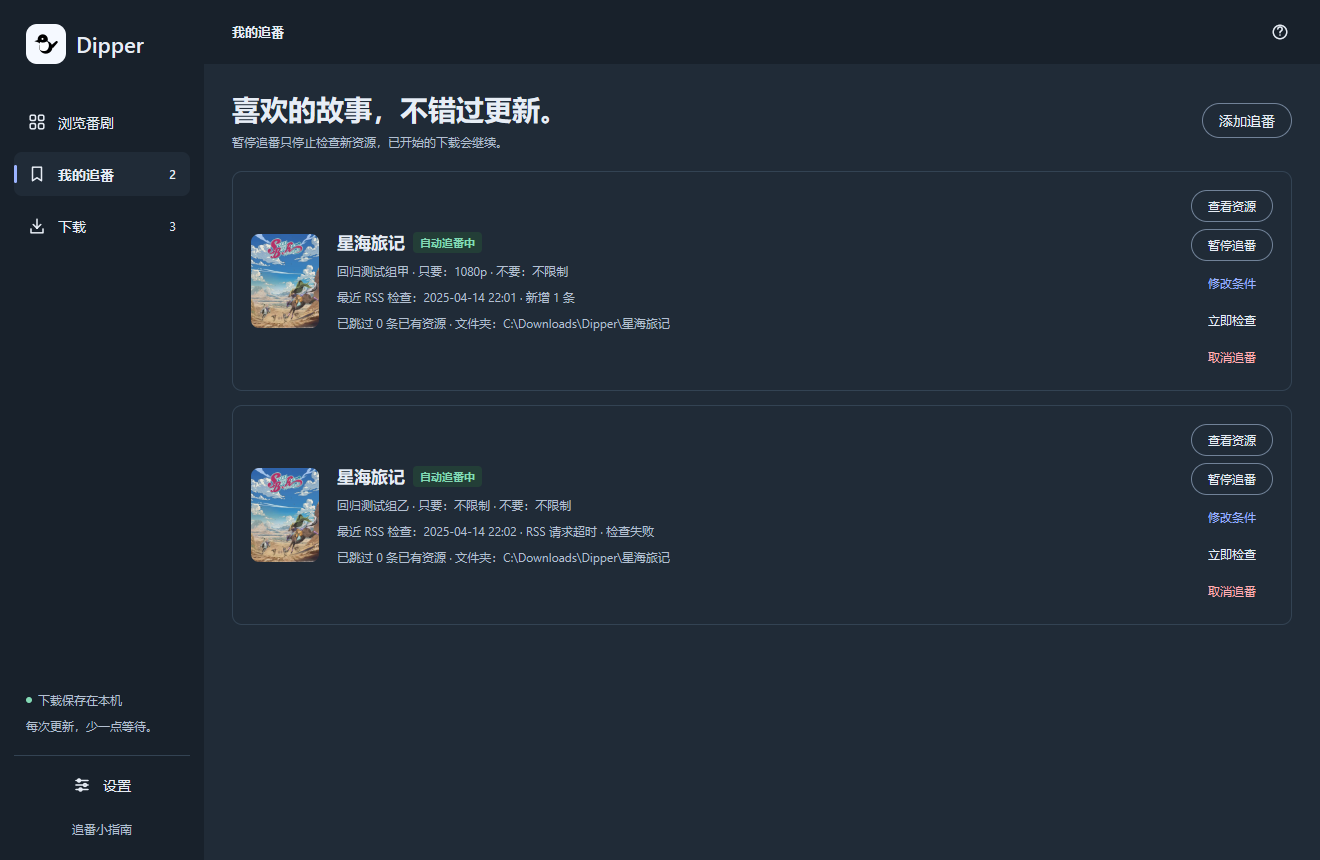
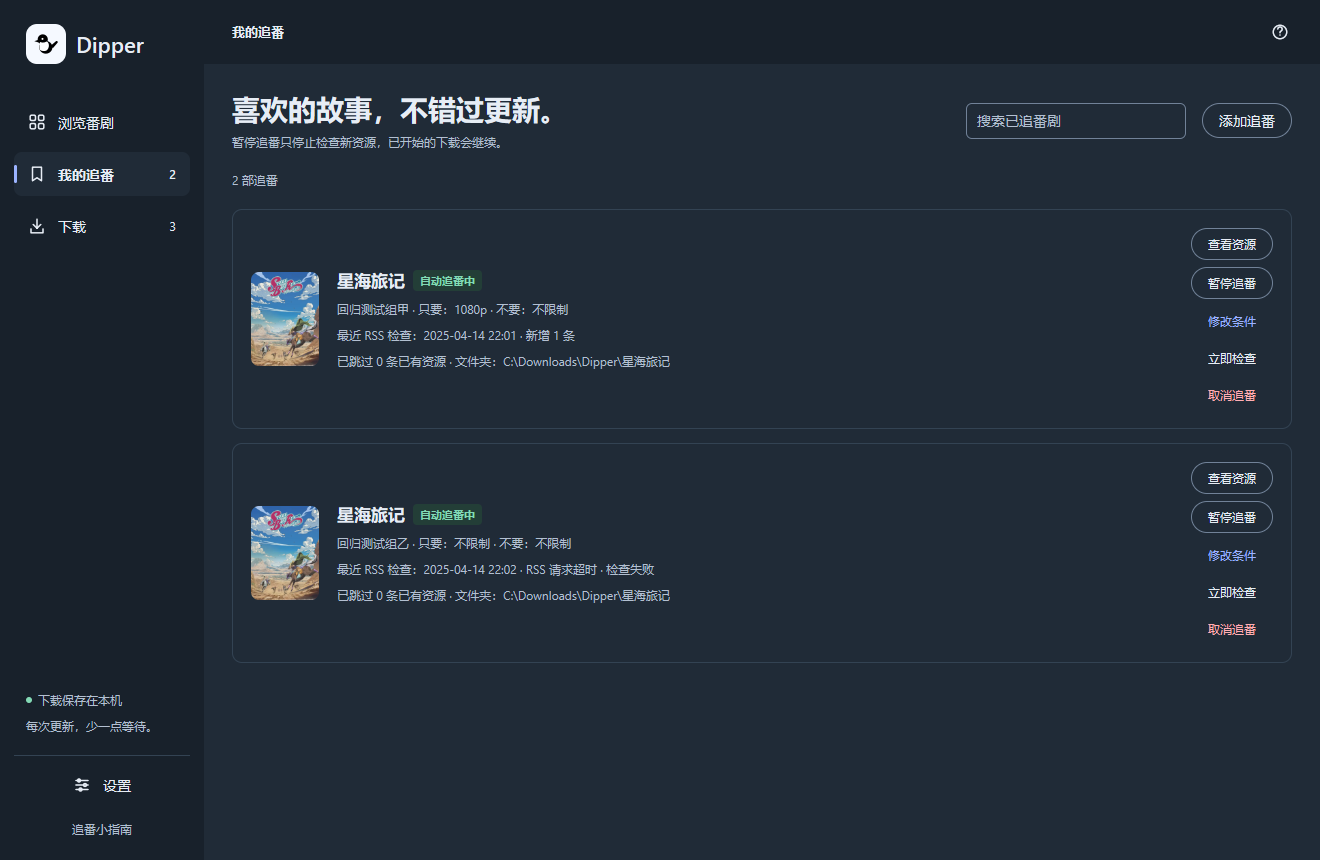
following: search saved follows and show pending and download summary

diff --git a/cmd/dipper/view.go b/cmd/dipper/view.go
@@ -987,11 +987,14 @@ func joinWords(words []string) string {
 
 func (s *State) following(c *ui.Context) {
 	ui.Column(c).Grow(1).MinHeight(0).Padding(26, 28).Gap(20).Children(func() {
-		ui.Row(c).Children(func() {
+		ui.Row(c).Gap(16).Children(func() {
 			ui.Column(c).Grow(1).Gap(6).Children(func() {
 				ui.Text(c, "喜欢的故事，不错过更新。").FontSize(28).FontWeight(700)
 				caption(c, "暂停追番只停止检查新资源，已开始的下载会继续。")
 			})
+			if ui.TextInput(c.Key("follow-search"), &s.FollowSearch).Label("搜索追番").Placeholder("搜索已追番剧").Width(220).Height(36).Background(colors(c).paper).Changed() {
+				s.ResourceScroll = ui.ScrollState{}
+			}
 			secondary(c, "find-more", "添加追番", func() { s.Page = "browse" })
 		})
 		if s.Notice != "" {
@@ -1006,9 +1009,26 @@ func (s *State) following(c *ui.Context) {
 			s.empty(c, "还没有开始追番", "先找到一部喜欢的番剧，选好版本，后续就不用反复找资源了。", "浏览番剧", func() { s.Page = "browse" })
 			return
 		}
+		var subs []Subscription
+		for _, sub := range s.Subscriptions {
+			if s.follows(sub) {
+				subs = append(subs, sub)
+			}
+		}
+		ui.Row(c).Gap(6).Children(func() {
+			caption(c, fmt.Sprintf("%d 部追番", len(subs)))
+			ui.Spacer(c)
+			if strings.TrimSpace(s.FollowSearch) != "" {
+				quiet(c, "clear-follow-search", "清除搜索", func() { s.FollowSearch = "" }).FontSize(12).TextColor(colors(c).blue).Padding(3, 0)
+			}
+		})
+		if len(subs) == 0 {
+			s.empty(c, "没有找到这部追番", "试试缩短番名，或清除搜索。", "清除搜索", func() { s.FollowSearch = "" })
+			return
+		}
 		ui.Scroll(c.Key("following-list")).Grow(1).MinHeight(0).Children(func() {
 			ui.Column(c).Gap(14).Children(func() {
-				for i, sub := range s.Subscriptions {
+				for i, sub := range subs {
 					idx := i
 					item := sub
 					a := s.anime(item.AnimeID)
@@ -1019,8 +1039,13 @@ func (s *State) following(c *ui.Context) {
 								ui.Text(c, a.Title).FontSize(17).FontWeight(600)
 								if item.Paused {
 									badge(c, "已暂停", colors(c).muted, colors(c).canvas)
+								} else if item.Active {
+									badge(c, "下载中", colors(c).blue, colors(c).blueWash)
 								} else {
 									badge(c, "自动追番中", colors(c).green, colors(c).greenWash)
+								}
+								if item.NewCount > 0 {
+									badge(c, fmt.Sprintf("新资源 %d 条", item.NewCount), colors(c).amber, colors(c).amberWash)
 								}
 							})
 							group := item.GroupName
@@ -1039,6 +1064,9 @@ func (s *State) following(c *ui.Context) {
 								status += " · 检查失败"
 							}
 							caption(c, status)
+							if len(item.Recent) > 0 {
+								caption(c, "最近新到："+strings.Join(item.Recent, " / "))
+							}
 							caption(c, fmt.Sprintf("已跳过 %d 条已有资源 · 文件夹：%s", len(item.Skipped), item.Folder))
 						})
 						ui.Column(c).Gap(7).Children(func() {
@@ -1309,4 +1337,26 @@ func (s *State) titlePreferences(c *ui.Context) {
 		})
 		secondary(c, "close-suggestions", "完成选版本", func() { s.Suggestions = false }).FillWidth()
 	})
+}
+
+// follows keeps the subscription when the follow search matches its anime
+// title, subtitle group, or a word the saved rule requires.
+func (s *State) follows(sub Subscription) bool {
+	query := normalize(strings.TrimSpace(s.FollowSearch))
+	if query == "" {
+		return true
+	}
+	a := s.anime(sub.AnimeID)
+	if strings.Contains(normalize(a.Title), query) {
+		return true
+	}
+	if strings.Contains(normalize(sub.GroupName), query) {
+		return true
+	}
+	for _, w := range sub.Rule.All {
+		if strings.Contains(normalize(w), query) {
+			return true
+		}
+	}
+	return false
 }

diff --git a/cmd/dipper/view_test.go b/cmd/dipper/view_test.go
@@ -320,6 +320,34 @@ func TestUIBackfillEntryRequiresExplicitSelectionAndKeepsSavedRule(t *testing.T)
 	}
 }
 
+func TestUIFollowingSearchFiltersByTitle(t *testing.T) {
+	s := uiFixture(t, "following")
+	tt := ui.NewTester(s.view, 1320, 860)
+	s.FollowSearch = "组乙"
+	tt.Frame()
+	uiRequireText(t, tt, "1 部追番", "清除搜索")
+	if tt.HasText(s.Subscriptions[0].GroupName) {
+		t.Fatal("follow search did not filter out the other subscription")
+	}
+	uiClick(t, tt, "清除搜索")
+	if s.FollowSearch != "" {
+		t.Fatal("clearing the follow search did not clear the query")
+	}
+	s.FollowSearch = "不存在的追番"
+	tt.Frame()
+	uiRequireText(t, tt, "没有找到这部追番")
+	uiClick(t, tt, "清除搜索")
+}
+
+func TestUIFollowingShowsPendingAndActiveSummary(t *testing.T) {
+	s := uiFixture(t, "following")
+	s.Subscriptions[0].NewCount = 2
+	s.Subscriptions[0].Recent = []string{"[桥接字幕组] 桥接番剧 - 03 [1080p].mkv", "[桥接字幕组] 桥接番剧 - 04 [1080p].mkv"}
+	s.Subscriptions[1].Active = true
+	tt := ui.NewTester(s.view, 1320, 860)
+	uiRequireText(t, tt, "新资源 2 条", "最近新到：", "下载中")
+}
+
 func TestUIFollowingUsesSubscriptionIdentityAndRSSResult(t *testing.T) {
 	s := uiFixture(t, "following")
 	s.Catalog = nil

diff --git a/cmd/dipper/model.go b/cmd/dipper/model.go
@@ -48,6 +48,9 @@ type Subscription struct {
 	Read                   []string
 	LastCheck              string
 	CheckFailed            bool
+	NewCount               int
+	Recent                 []string
+	Active                 bool
 }
 type Download struct {
 	Error                               string
@@ -116,6 +119,7 @@ type State struct {
 	Season                     string
 	Day                        int
 	Search                     string
+	FollowSearch               string
 	AnimeID                    string
 	Group                      int
 	ChoosingGroup              bool

diff --git a/cmd/dipper/core_ui.go b/cmd/dipper/core_ui.go
@@ -271,6 +271,20 @@ func (s *State) project(state core.State, snapshots []downloader.Snapshot) {
 			if item.Read {
 				v.Read = append(v.Read, key)
 			}
+			if item.Status == core.ItemPending {
+				v.NewCount++
+				if len(v.Recent) < 3 {
+					v.Recent = append(v.Recent, item.Resource.Title)
+				}
+			}
+		}
+		if !sub.Paused {
+			for _, d := range s.Downloads {
+				if d.AnimeID == sub.Anime.ID && d.Progress < 1 && !d.Paused && !d.Failed {
+					v.Active = true
+					break
+				}
+			}
 		}
 		s.Subscriptions = append(s.Subscriptions, v)
 	}

diff --git a/DESIGN.md b/DESIGN.md
@@ -291,7 +291,7 @@ preserves catalog filters and scroll position.
 | --- | --- |
 | Browse | Year and season heading, search, season and weekday controls, then poster grid. A short hint can be dismissed; the guide opens on request. |
 | Anime detail | Fansub group and editable conditions on the left; quick words, match count, reasons and release rows on the right; current-run summary and primary action below. |
-| My follows | Saved rules, latest check result, folder, pause/resume, edit and check-now actions. |
+| My follows | Follow search with a matching count, saved rules, latest check result, pending-release summary and download marker, folder, pause/resume, edit and check-now actions. |
 | Downloads | Separate aggregate upload/download speeds; per-task progress and speed, with pause/resume/retry or seeding actions appropriate to state. |
 | Settings | Appearance, source line, download location, shared upload limit, seeding-duration target, and window/background behavior. |
 

diff --git a/docs/subsystems/gui.md b/docs/subsystems/gui.md
@@ -89,6 +89,13 @@ successful detail response is authoritative. Opening another anime closes the
 reading dialog. `anime_summary_test.go` checks the rendering and interaction.
 
 
+The following page searches saved follows by anime title, subtitle group, or a
+word the saved rule requires; the count line reports how many follow cards match
+and offers a clear action, and an empty result offers a way to clear the search.
+Each card shows a pending-release count with the recent release titles when the
+scheduler has not yet handed them over, and a 下载中 mark while an uncompleted
+transfer for that anime is running.
+
 Following cards offer 查看资源 as a separate entry into the detail page. It
 locks the saved subscription's group and rule, opens as a view-only backfill
 where nothing is selected while history loads and a later history result must
